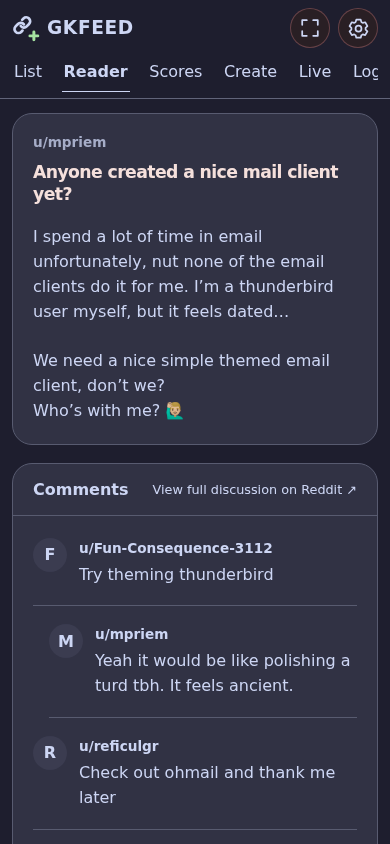
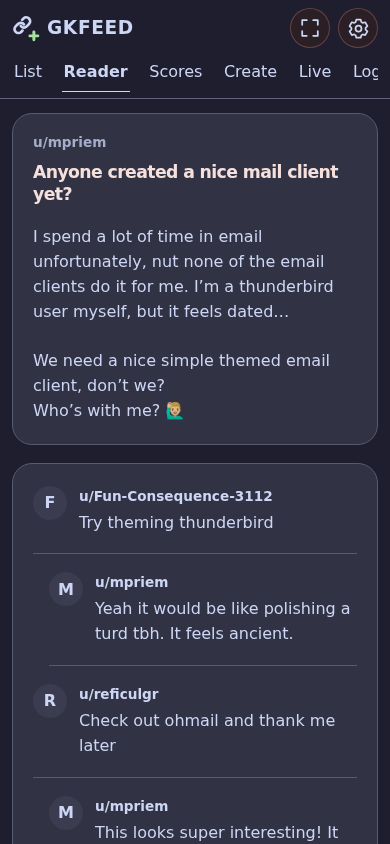
fix: remove Reddit discussion header

diff --git a/src/react/components/providers/providerRenderers/reddit.tsx b/src/react/components/providers/providerRenderers/reddit.tsx
@@ -42,16 +42,11 @@ export function RedditCopy({ facts, displayHostname }: FeedItemCardProviderRende
         {details?.body && <p>{details.body}</p>}
       </article>
       {details && details.comments.length > 0 && <section className="reddit-discussion" aria-label={t('comments.title')}>
-        <header className="reddit-discussion__header">
-          <h3>{t('comments.title')}</h3>
-          <a href={facts.item.link} target="_blank" rel="noreferrer">{t('reddit.viewDiscussion')} ↗</a>
-        </header>
         <ol tabIndex={0} aria-label={t('comments.title')}>
           {details.comments.map((comment, index) => <li key={index} style={{ marginInlineStart: `${comment.depth * 16}px` }}>
             <span className="reddit-discussion__avatar" aria-hidden="true">{comment.author.slice(0, 1).toUpperCase()}</span>
             <div><strong>u/{comment.author}</strong><p>{comment.text}</p></div>
           </li>)}
-          <li className="reddit-discussion__more"><a href={facts.item.link} target="_blank" rel="noreferrer">{t('reddit.viewDiscussion')} ↗</a></li>
         </ol>
       </section>}
     </div>

diff --git a/src/styles/reader/reddit.css b/src/styles/reader/reddit.css
@@ -89,9 +89,6 @@
   background: var(--color-card);
   text-align: left;
 }
-.reddit-discussion__header { display: flex; align-items: center; justify-content: space-between; gap: 12px; padding: 20px 24px; border-bottom: 1px solid var(--color-card-border); }
-.reddit-discussion__header h3 { margin: 0; font-size: 1rem; }
-.reddit-discussion a { color: var(--color-ink); font-size: .8rem; }
 .reddit-discussion ol { overflow-y: auto; list-style: none; padding: 4px 24px 24px; margin: 0; }
 .reddit-discussion li { display: flex; gap: 12px; padding: 18px 0; border-bottom: 1px solid var(--color-card-border); }
 .reddit-discussion li > div { min-width: 0; }
@@ -109,6 +106,5 @@
 @media (max-width: 899px) {
   .reddit-discussion { height: min(55dvh, 600px); }
   .reddit-post { padding: 20px; }
-  .reddit-discussion__header { padding: 16px 20px; }
   .reddit-discussion ol { padding-inline: 20px; }
 }

diff --git a/src/react/locales/ru.ts b/src/react/locales/ru.ts
@@ -276,7 +276,6 @@ const ru = {
     descriptionLatte: 'Тёплая пастель',
     descriptionMocha: 'Глубокая пастель',
   },
-  reddit: { viewDiscussion: 'Вся дискуссия на Reddit' },
   comments: {
     label: 'Комментарии TikTok',
     title: 'Комментарии',

diff --git a/src/react/locales/en.ts b/src/react/locales/en.ts
@@ -266,7 +266,6 @@ const en = {
     descriptionLatte: 'Warm pastel',
     descriptionMocha: 'Deep pastel',
   },
-  reddit: { viewDiscussion: 'View full discussion on Reddit' },
   comments: {
     label: 'TikTok comments',
     title: 'Comments',
